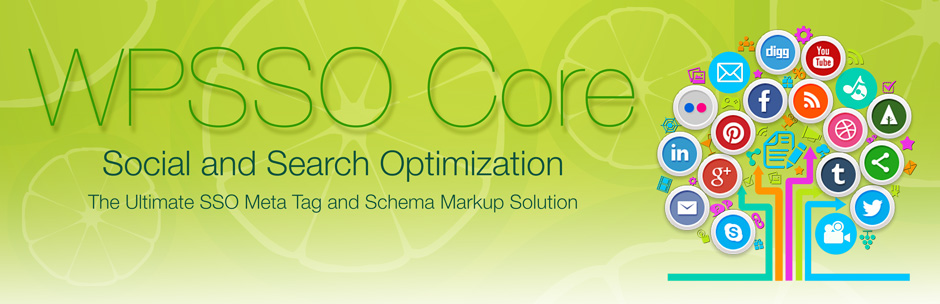
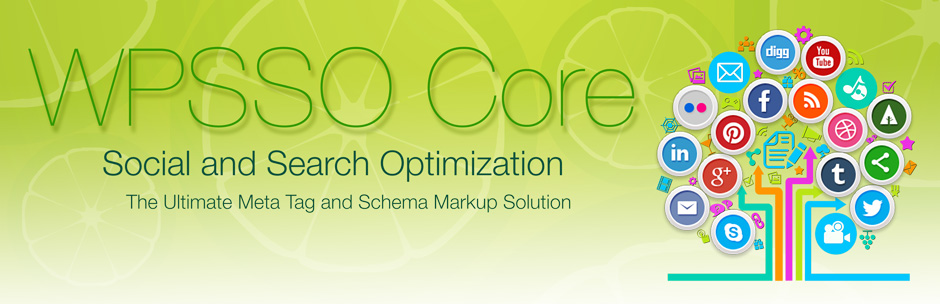
non-essential support files (documentation and assets)

diff --git a/index.html b/index.html
@@ -25,7 +25,7 @@
         </ul>
       </header>
       <section>
-<h1>WPSSO Core</h1><h3>The Ultimate SSO Meta Tag and Schema Markup Solution</h3>
+<h1>WPSSO Core</h1><h3>The Ultimate Meta Tag and Schema Markup Solution</h3>
 
 <table>
 <tr><th align="right" valign="top" nowrap>Plugin Name</th><td>WPSSO Core</td></tr>
